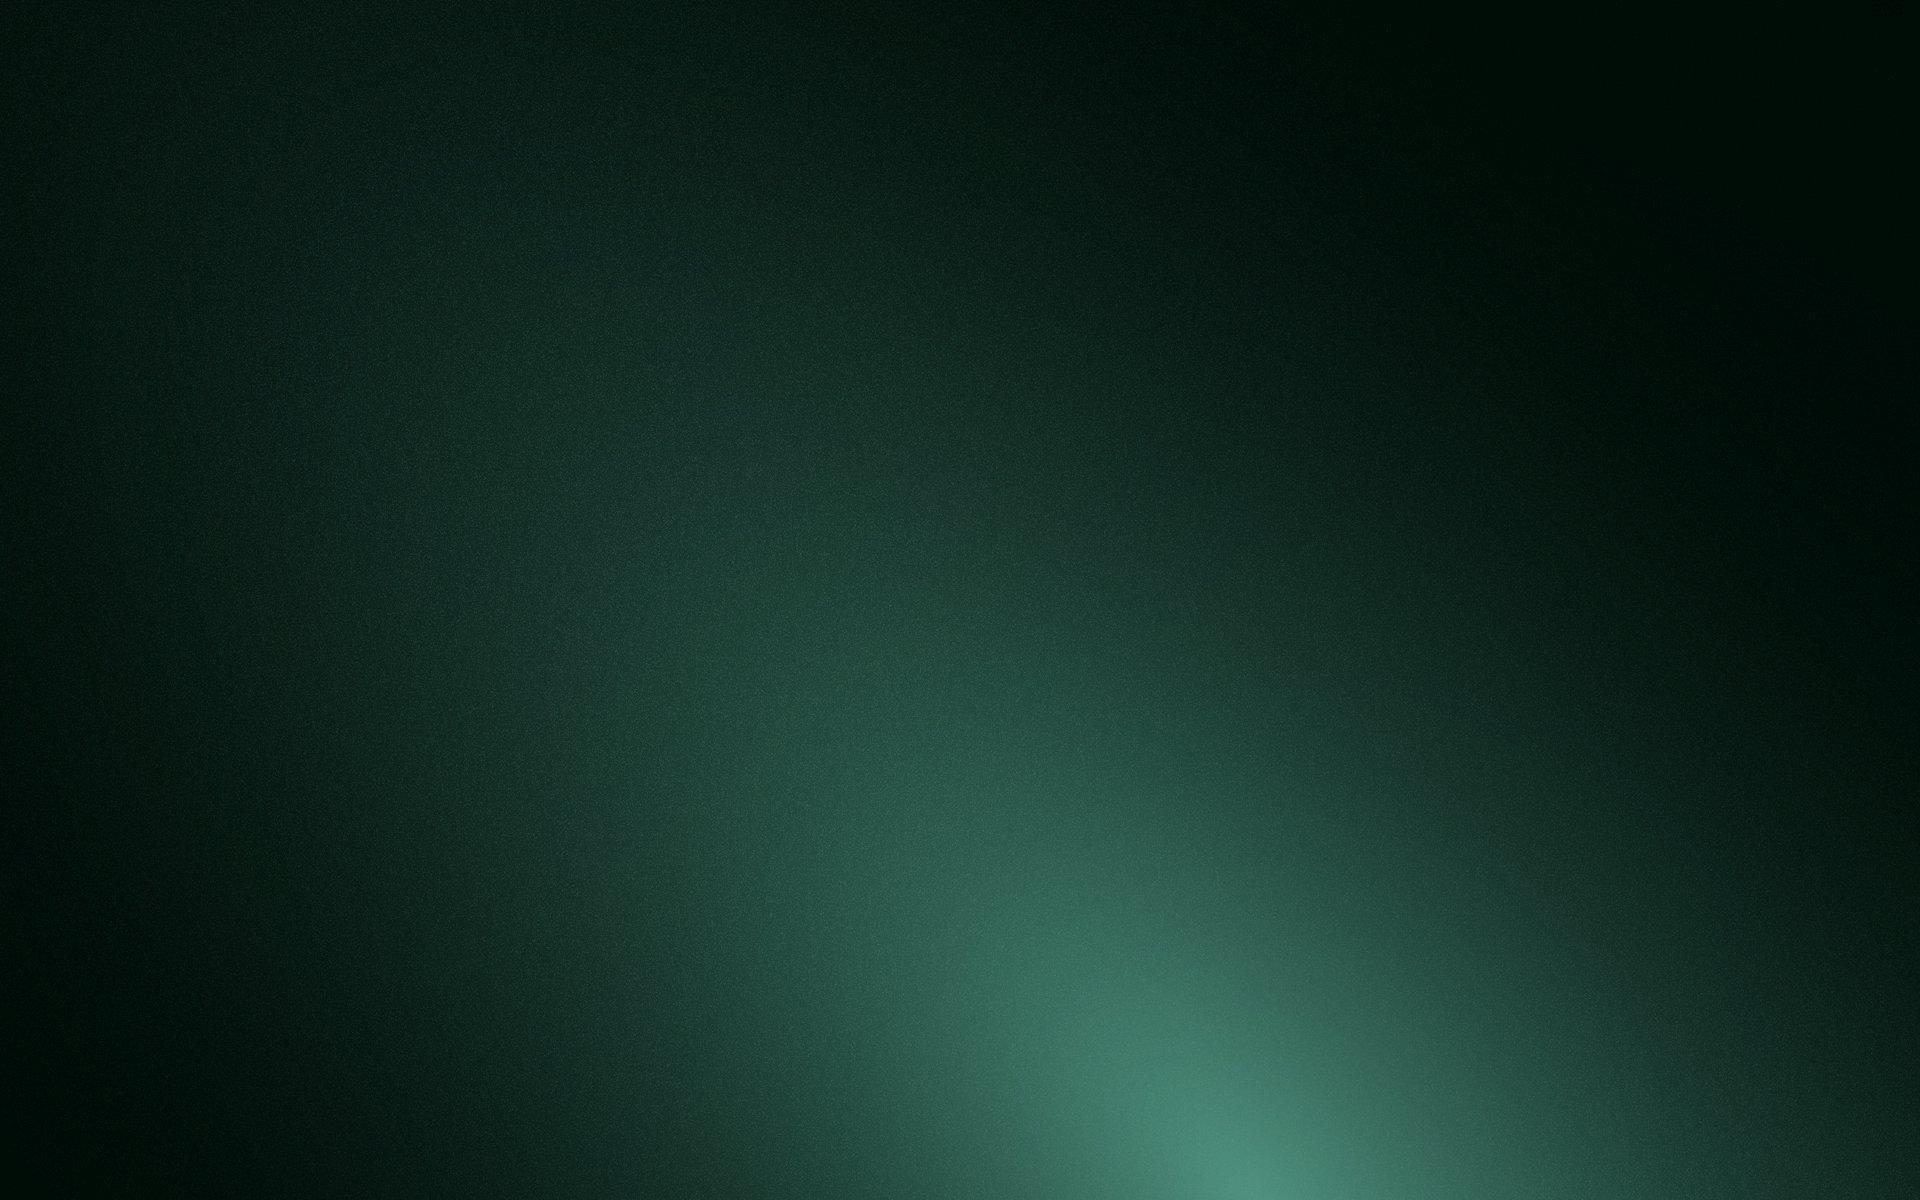
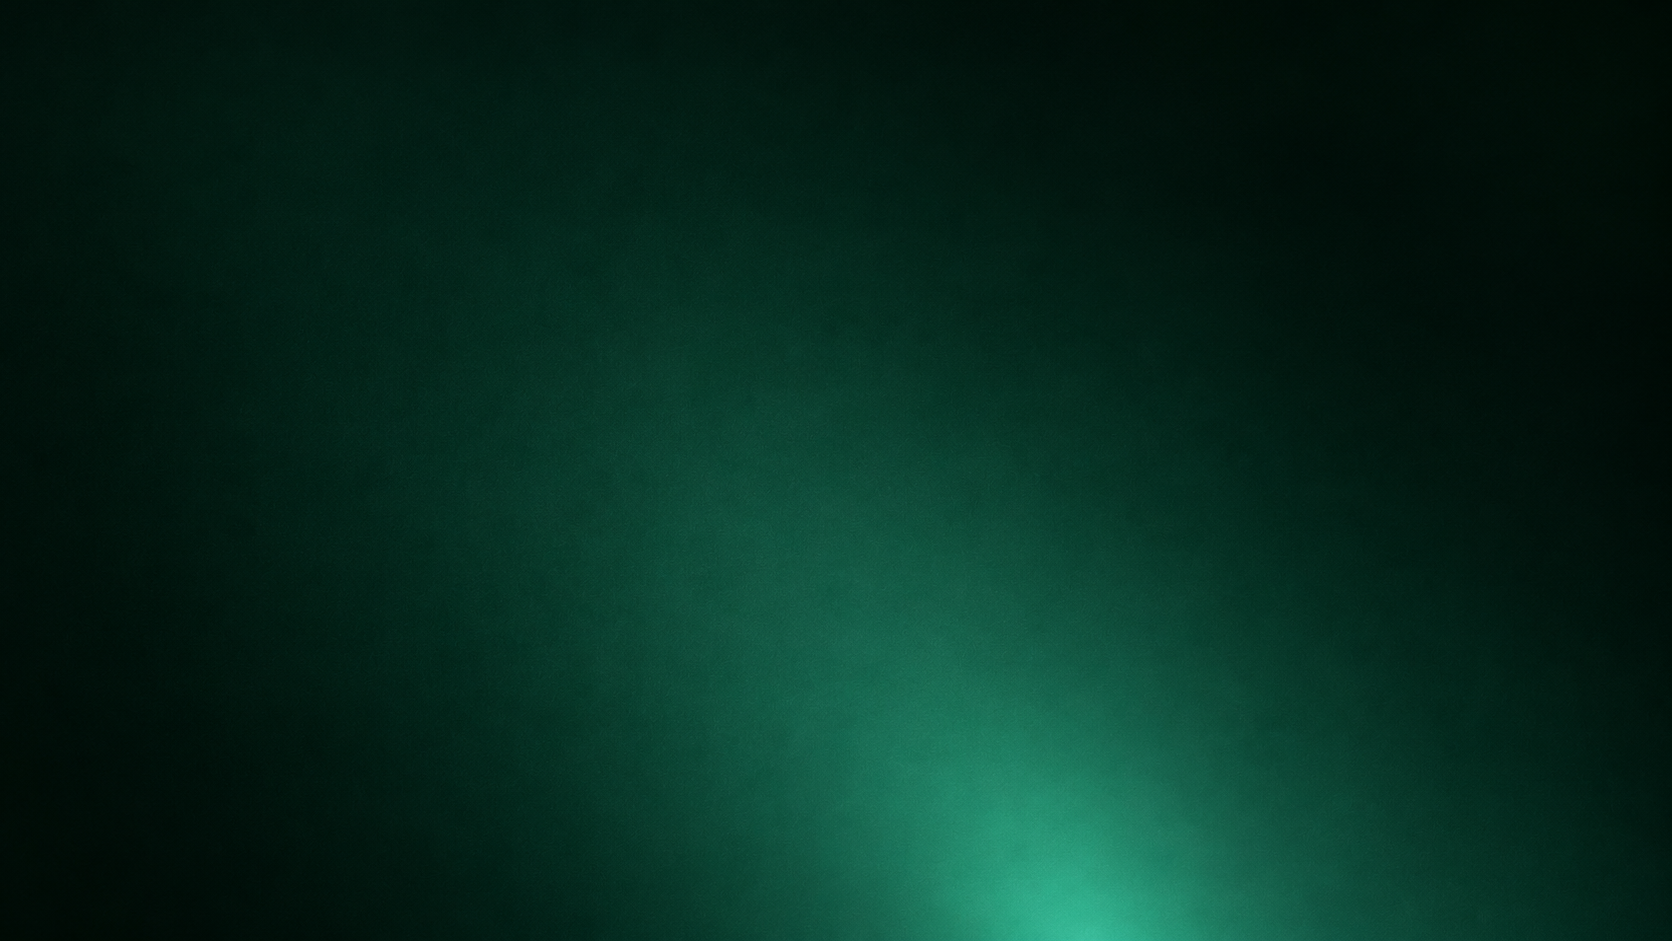
wip(ui): adjust nutrition background for mobile screens

Changed region(s): [[0.2799, 0.4931, 0.933, 1.0], [0.311, 0.4315, 0.3421, 0.4931]]

diff --git a/static/css/style.css b/static/css/style.css
@@ -383,6 +383,112 @@
     display: none;
 }
 
+/*------------------------------------Hintergründe----------------------------------------------------------------*/
+/*login,register,startseite,start_workout*/
+body.login-page,
+body.register-page,
+body.selection-page,
+body.start-workout-page
+{
+    background-image: url("/static/images/hintergrund_1.jpg");
+}
+
+/*ernährung*/
+body.nutrition-page
+{
+    background-image: url("/static/images/hintergrund_nutrition.jpg");
+}
+
+/*training*/
+body.workouts-page,
+body.create-workout-page,
+body.fitness-page
+{
+    background-image: url("/static/images/hintergrund_workouts.jpg");
+}
+
+/*------------------------------------Dunkles Design------------------------------------*/
+
+/*Hintergrundbild passend zum Bildschirm anzeigen*/
+body.login-page,
+body.register-page,
+body.selection-page,
+body.start-workout-page,
+body.nutrition-page,
+body.workouts-page,
+body.create-workout-page,
+body.fitness-page
+{
+    background-size: cover;
+    background-position: center;
+    background-attachment: fixed;
+    background-repeat: no-repeat;
+    min-height: 100vh;
+}
+
+/*Texte auf den Hintergrundbildern lesbar machen*/
+body.login-page,
+body.register-page,
+body.selection-page,
+body.start-workout-page,
+body.nutrition-page,
+body.workouts-page,
+body.create-workout-page,
+body.fitness-page
+{
+    color: white;
+}
+
+/*Eingabefelder*/
+input,
+select,
+textarea
+{
+    background-color: darkslategray;
+    color: white;
+    border: 1px solid gray;
+    border-radius: 5px;
+    padding: 8px;
+}
+
+/*Platzhalter*/
+input::placeholder,
+textarea::placeholder
+{
+    color: silver;
+}
+
+/*Allgemeine Buttons*/
+button
+{
+    background-color: darkslategray;
+    color: white;
+    border: 1px solid darkgrey;
+    border-radius: 5px;
+    padding: 8px 12px;
+    cursor: pointer;
+}
+
+button:hover
+{
+    background-color: dimgray;
+}
+
+/*Bereiche auf dem Hintergrund abheben*/
+.selection-box,
+.muscle-group,
+.nutrition-meal-card,
+.meal-food-list,
+.workout,
+.exercises
+{
+    background-color: rgba(20, 20, 20, 0.9);
+    color: white;
+    border-color: darkgray;
+}
+
+
+
 /* -------------------------------------------Handy-------------------------------------------*/
 @media (max-width: 600px)
 {
@@ -514,109 +620,27 @@
         display: block;
     }
 
-}
+    /*------------------------------------Hintergründe Handy------------------------------------*/
+    body.login-page,
+    body.register-page,
+    body.selection-page,
+    body.start-workout-page,
+    body.workouts-page,
+    body.create-workout-page,
+    body.fitness-page
+    {
+        background-size: cover;
+        background-position: center top;
+        background-attachment: scroll;
+    }
 
-/*------------------------------------Hintergründe----------------------------------------------------------------*/
-/*login,register,startseite,start_workout*/
-body.login-page,
-body.register-page,
-body.selection-page,
-body.start-workout-page
-{
-    background-image: url("/static/images/hintergrund_1.jpg");
-}
+   body.nutrition-page
+    {
+        background-size: 100% auto;
+        background-position: center;
+        background-attachment: scroll;
+        background-repeat: no-repeat;
+        background-color: black;
+    }
 
-/*ernährung*/
-body.nutrition-page
-{
-    background-image: url("/static/images/hintergrund_nutrition.jpg");
-}
-
-/*training*/
-body.workouts-page,
-body.create-workout-page,
-body.fitness-page
-{
-    background-image: url("/static/images/hintergrund_workouts.jpg");
-}
-
-
-/*------------------------------------Dunkles Design------------------------------------*/
-
-/*Hintergrundbild passend zum Bildschirm anzeigen*/
-body.login-page,
-body.register-page,
-body.selection-page,
-body.start-workout-page,
-body.nutrition-page,
-body.workouts-page,
-body.create-workout-page,
-body.fitness-page
-{
-    background-size: cover;
-    background-position: center;
-    background-attachment: fixed;
-    background-repeat: no-repeat;
-    min-height: 100vh;
-}
-
-/*Texte auf den Hintergrundbildern lesbar machen*/
-body.login-page,
-body.register-page,
-body.selection-page,
-body.start-workout-page,
-body.nutrition-page,
-body.workouts-page,
-body.create-workout-page,
-body.fitness-page
-{
-    color: white;
-}
-
-/*Eingabefelder*/
-input,
-select,
-textarea
-{
-    background-color: darkslategray;
-    color: white;
-    border: 1px solid gray;
-    border-radius: 5px;
-    padding: 8px;
-}
-
-/*Platzhalter*/
-input::placeholder,
-textarea::placeholder
-{
-    color: silver;
-}
-
-/*Allgemeine Buttons*/
-button
-{
-    background-color: darkslategray;
-    color: white;
-    border: 1px solid darkgrey;
-    border-radius: 5px;
-    padding: 8px 12px;
-    cursor: pointer;
-}
-
-button:hover
-{
-    background-color: dimgray;
-}
-
-/*Bereiche auf dem Hintergrund abheben*/
-.selection-box,
-.muscle-group,
-.nutrition-meal-card,
-.meal-food-list,
-.workout,
-.exercises
-{
-    background-color: rgba(20, 20, 20, 0.9);
-    color: white;
-    border-color: darkgray;
 }
